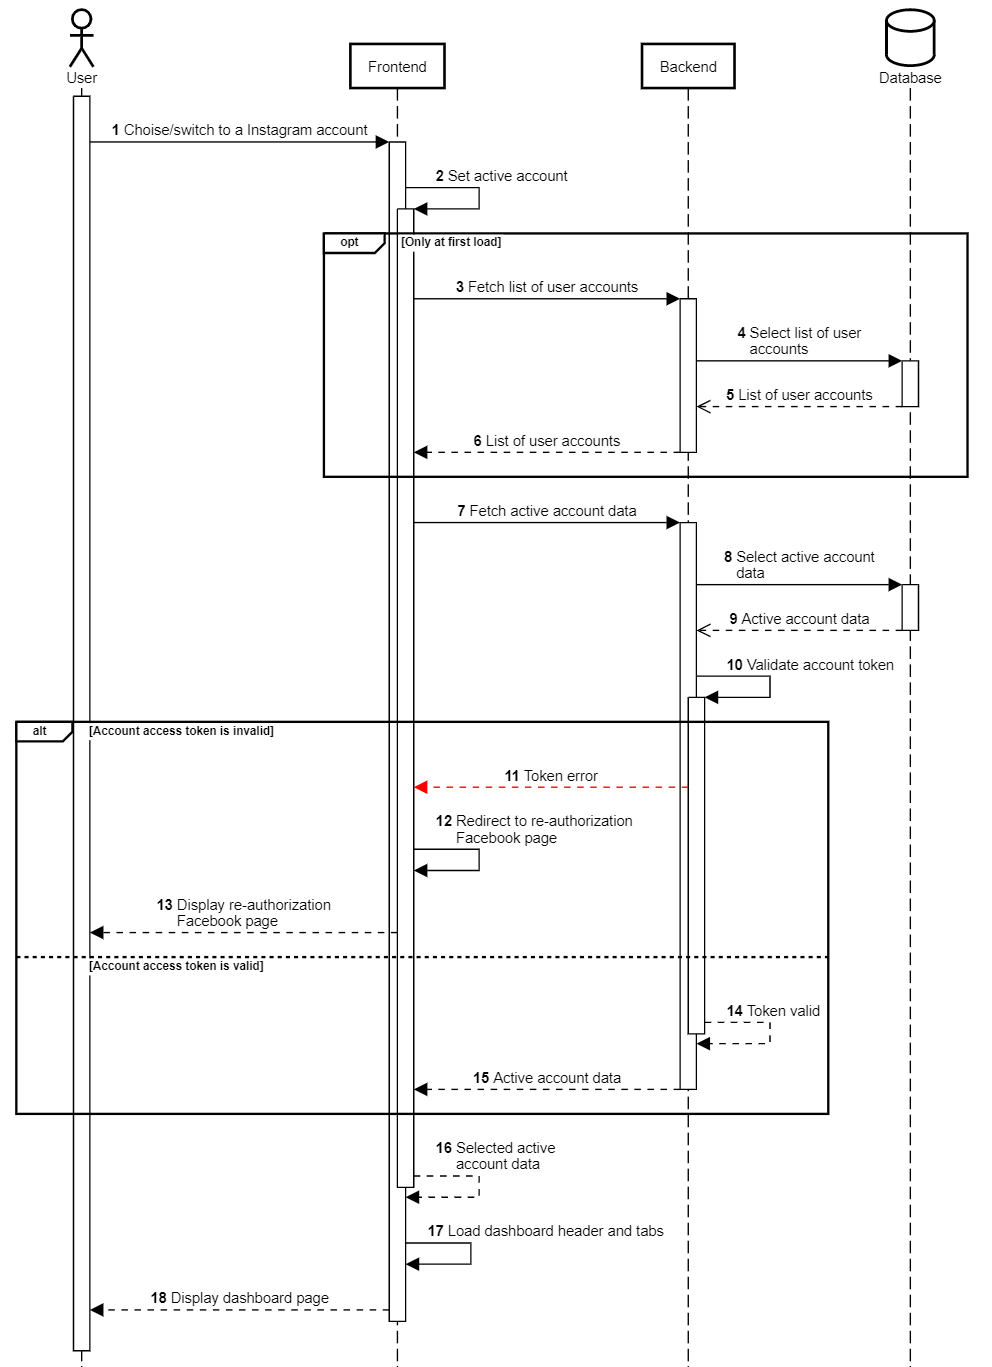
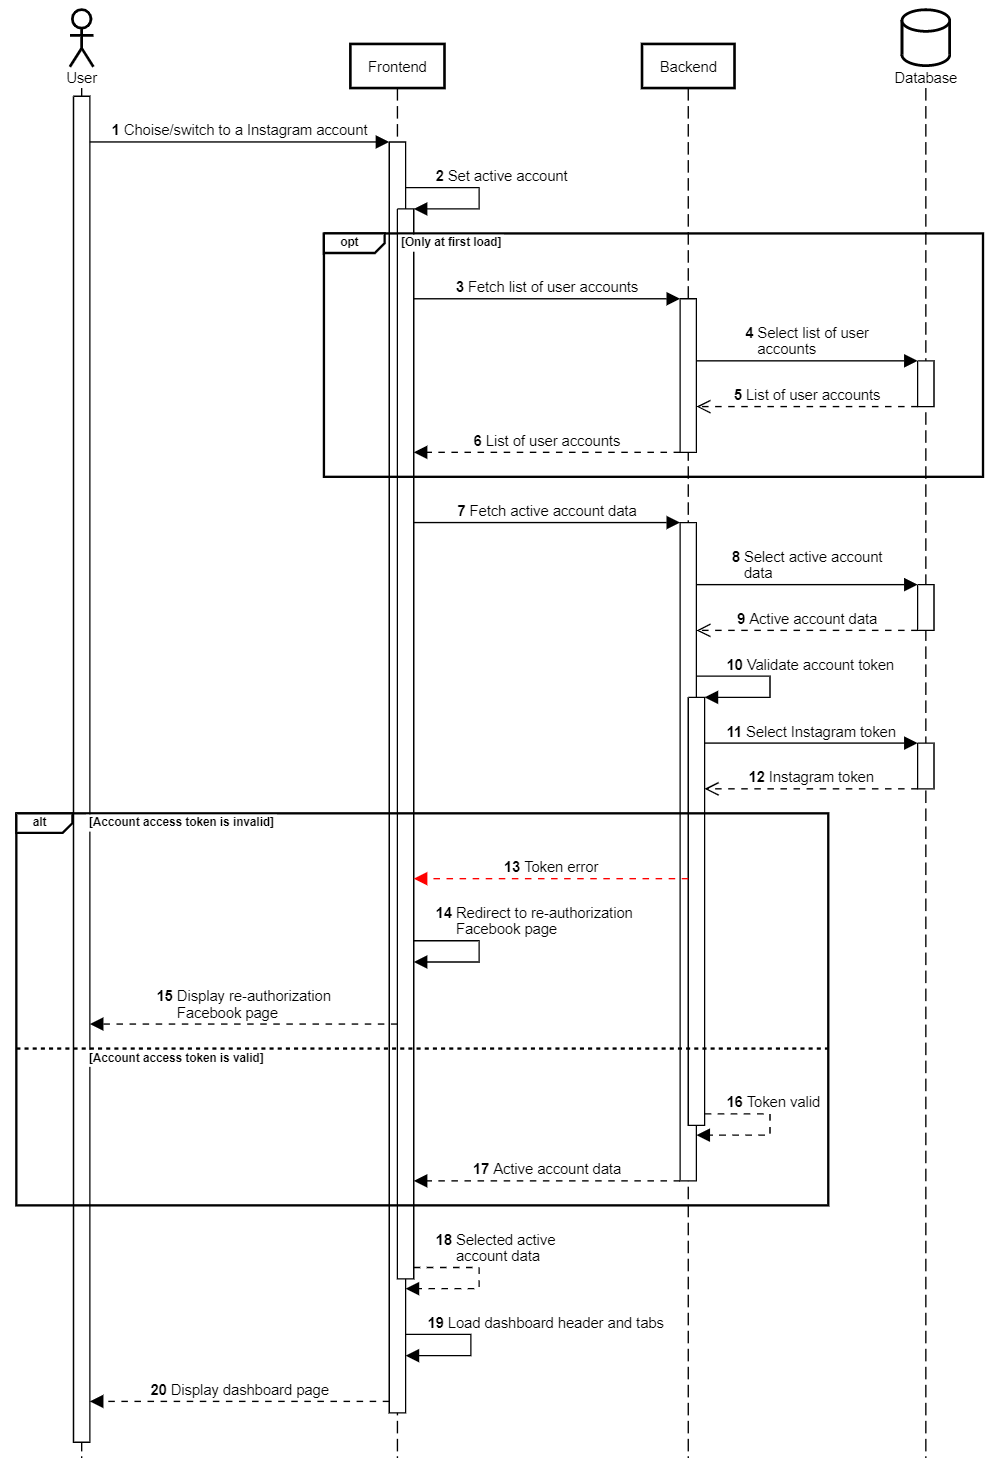
feat(dashboard): add token validation sequence

diff --git a/docs/source/Toba/cekbrand/architecture/feature/dashboard.rst b/docs/source/Toba/cekbrand/architecture/feature/dashboard.rst
@@ -17,13 +17,15 @@ Berikut adalah diagram alur yang mewakili halaman ini disertai penjelasannya.
 6. Backend mengembalikan daftar akun Instagram ke Frontend
 7. Frontend melakukan request ke endpoint :ref:`account-detail`.
 8. Backend mengambil data detail akun Instagram dari database ``instagram.user``, ``instagram.user_data`` dan ``public.socialaccount_socialaccount``.
-9. Database mengembalukan data detail akun Instagram yang dibutuhkan.
+9. Database mengembalikan data detail akun Instagram yang dibutuhkan.
 10. Backend melakukan validasi *access token* akun Instagram terkait.
-11. Jika token tidak valid Backend akan mengembalikan error.
-12. Frontend akan mengalihkan tampilan ke halaman **Re-Authotization Facebook**.
-13. Frontend menampilkan halaman tersebut pada Pengguna.
-14. Jika token valid,
-15. Backend mengembalikan data detail akun.
-16. Frontend berhasil menetapkan *active account* pada dashboard.
-17. Frontend memuat header dan tab-tab dashboard yang terdiri dari Kompetitor, Statistik dan Top Post.
-18. Frontend menampilkan halaman dashboard pada Pengguna.
+11. Backend mengambil Instagram token dari database ``instagram.instagram_tokens`` atau ``public.socialaccount_socialtoken``.
+12. Dashboard mengembalikan Instagram token terkait.
+13. Jika token tidak valid Backend akan mengembalikan error.
+14. Frontend akan mengalihkan tampilan ke halaman **Re-Authotization Facebook**.
+15. Frontend menampilkan halaman tersebut pada Pengguna.
+16. Jika token valid,
+17. Backend mengembalikan data detail akun.
+18. Frontend berhasil menetapkan *active account* pada dashboard.
+19. Frontend memuat header dan tab-tab dashboard yang terdiri dari Kompetitor, Statistik dan Top Post.
+20. Frontend menampilkan halaman dashboard pada Pengguna.
